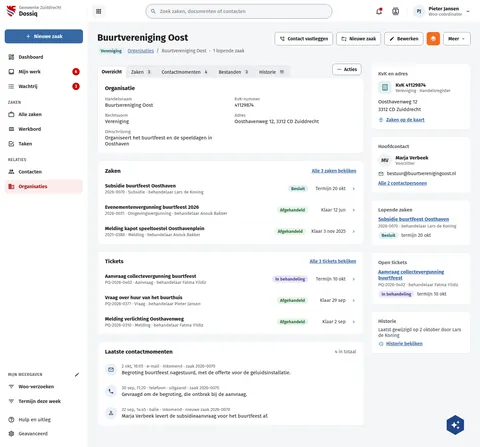
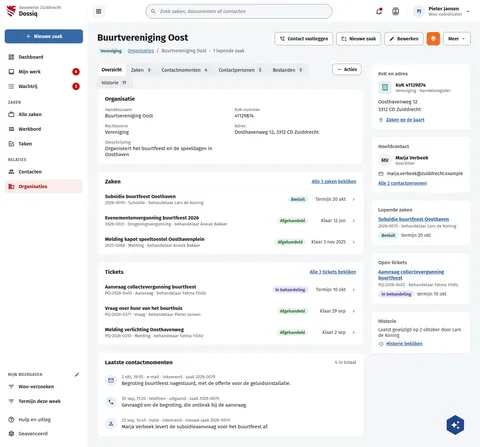
fix(screens): DqOrganisatie's main contact shows her own e-mail, and the Contactpersonen tab
Ruben's decision (24 Oct) on organisation contact persons: the Hoofdcontact
card shows the contact person's own correspondence address, not the
organisation's mailbox, so Marja Verbeek reads marja.verbeek@zuiddrecht.example,
as the Zuiddrecht example set holds it. "Alle 2 contactpersonen" opens a tab,
so the strip gains "Contactpersonen 2" after Contactmomenten, as dossiq
builds it (feat/organisation-contact-persons). screens.json is left as it was;
the board's height did not change.

Assisted-by: ClaudeCode:claude-opus-5-5

diff --git a/preview/screens/boards/DqOrganisatie.html b/preview/screens/boards/DqOrganisatie.html
@@ -168,6 +168,8 @@ a{color:var(--sc-primary, #3669a5)}a:hover{color:var(--sc-primary-deep, #234a78)
                 
                   <button type="button" role="tab" aria-selected="false" style="display: inline-flex; align-items: center; gap: 6px; box-sizing: border-box; min-height: 34px; padding: 8px 12px; margin-bottom: -1px; border: 1px solid #d6d9de; border-bottom: none; border-radius: 8px 8px 0 0; font: 400 14px var(--sc-font, 'Fira Sans'), sans-serif; color: var(--sc-work-ink, #1b1c1d); background: #eceef1; cursor: pointer; white-space: nowrap;">Contactmomenten<span style="min-width: 20px; height: 20px; padding: 0 6px; box-sizing: border-box; border-radius: 10px; background: var(--sc-work-line, #e4e6ea); color: var(--sc-work-text, #3d4047); font-size: 12px; font-weight: 600; display: inline-flex; align-items: center; justify-content: center">4</span></button>
                 
+                  <button type="button" role="tab" aria-selected="false" style="display: inline-flex; align-items: center; gap: 6px; box-sizing: border-box; min-height: 34px; padding: 8px 12px; margin-bottom: -1px; border: 1px solid #d6d9de; border-bottom: none; border-radius: 8px 8px 0 0; font: 400 14px var(--sc-font, 'Fira Sans'), sans-serif; color: var(--sc-work-ink, #1b1c1d); background: #eceef1; cursor: pointer; white-space: nowrap;">Contactpersonen<span style="min-width: 20px; height: 20px; padding: 0 6px; box-sizing: border-box; border-radius: 10px; background: var(--sc-work-line, #e4e6ea); color: var(--sc-work-text, #3d4047); font-size: 12px; font-weight: 600; display: inline-flex; align-items: center; justify-content: center">2</span></button>
+                
                   <button type="button" role="tab" aria-selected="false" style="display: inline-flex; align-items: center; gap: 6px; box-sizing: border-box; min-height: 34px; padding: 8px 12px; margin-bottom: -1px; border: 1px solid #d6d9de; border-bottom: none; border-radius: 8px 8px 0 0; font: 400 14px var(--sc-font, 'Fira Sans'), sans-serif; color: var(--sc-work-ink, #1b1c1d); background: #eceef1; cursor: pointer; white-space: nowrap;">Bestanden<span style="min-width: 20px; height: 20px; padding: 0 6px; box-sizing: border-box; border-radius: 10px; background: var(--sc-work-line, #e4e6ea); color: var(--sc-work-text, #3d4047); font-size: 12px; font-weight: 600; display: inline-flex; align-items: center; justify-content: center">3</span></button>
                 
                   <button type="button" role="tab" aria-selected="false" style="display: inline-flex; align-items: center; gap: 6px; box-sizing: border-box; min-height: 34px; padding: 8px 12px; margin-bottom: -1px; border: 1px solid #d6d9de; border-bottom: none; border-radius: 8px 8px 0 0; font: 400 14px var(--sc-font, 'Fira Sans'), sans-serif; color: var(--sc-work-ink, #1b1c1d); background: #eceef1; cursor: pointer; white-space: nowrap;">Historie<span style="min-width: 20px; height: 20px; padding: 0 6px; box-sizing: border-box; border-radius: 10px; background: var(--sc-work-line, #e4e6ea); color: var(--sc-work-text, #3d4047); font-size: 12px; font-weight: 600; display: inline-flex; align-items: center; justify-content: center">11</span></button>
@@ -272,7 +274,7 @@ a{color:var(--sc-primary, #3669a5)}a:hover{color:var(--sc-primary-deep, #234a78)
             <section style="background: #ffffff; border: 1px solid var(--sc-work-line, #e4e6ea); border-radius: 12px; padding: 20px 22px; display: flex; flex-direction: column; gap: 12px">
               <h2 style="margin: 0; font-size: 15px; font-weight: 600; color: var(--sc-work-muted, #5e6168)">Hoofdcontact</h2>
               <div style="display: flex; gap: 12px; align-items: center"><span style="width: 40px; height: 40px; flex: none; border-radius: 20px; background: var(--sc-work-chip, #f0f1f3); color: var(--sc-work-text, #3d4047); display: flex; align-items: center; justify-content: center; font-weight: 700">MV</span><span style="display: flex; flex-direction: column"><strong style="font-size: 15px">Marja Verbeek</strong><span style="font-size: 13px; color: var(--sc-work-muted, #5e6168)">Voorzitter</span></span></div>
-              <span style="display: flex; gap: 10px; align-items: center; font-size: 14px"><svg width="16" height="16" viewbox="0 0 24 24" fill="#3d4047" style="flex: none;fill:var(--sc-work-text, #3d4047)" aria-hidden="true"><path d="M22 6C22 4.9 21.1 4 20 4H4C2.9 4 2 4.9 2 6V18C2 19.1 2.9 20 4 20H20C21.1 20 22 19.1 22 18V6M20 6L12 11L4 6H20M20 18H4V8L12 13L20 8V18Z"></path></svg>bestuur@buurtverenigingoost.nl</span>
+              <span style="display: flex; gap: 10px; align-items: center; font-size: 14px"><svg width="16" height="16" viewbox="0 0 24 24" fill="#3d4047" style="flex: none;fill:var(--sc-work-text, #3d4047)" aria-hidden="true"><path d="M22 6C22 4.9 21.1 4 20 4H4C2.9 4 2 4.9 2 6V18C2 19.1 2.9 20 4 20H20C21.1 20 22 19.1 22 18V6M20 6L12 11L4 6H20M20 18H4V8L12 13L20 8V18Z"></path></svg>marja.verbeek@zuiddrecht.example</span>
               <a href="#" style="font-size: 14px; font-weight: 600">Alle 2 contactpersonen</a>
             </section>
             <section style="background: #ffffff; border: 1px solid var(--sc-work-line, #e4e6ea); border-radius: 12px; padding: 20px 22px; display: flex; flex-direction: column; gap: 10px">

diff --git a/screens-src/zuiddrecht/DqOrganisatie.dc.html b/screens-src/zuiddrecht/DqOrganisatie.dc.html
@@ -100,7 +100,7 @@ a{color:#3669a5}a:hover{color:#234a78}
             <section style="background: #ffffff; border: 1px solid #e4e6ea; border-radius: 12px; padding: 20px 22px; display: flex; flex-direction: column; gap: 12px">
               <h2 style="margin: 0; font-size: 15px; font-weight: 600; color: #5e6168">Hoofdcontact</h2>
               <div style="display: flex; gap: 12px; align-items: center"><span style="width: 40px; height: 40px; flex: none; border-radius: 20px; background: #f0f1f3; color: #3d4047; display: flex; align-items: center; justify-content: center; font-weight: 700">MV</span><span style="display: flex; flex-direction: column"><strong style="font-size: 15px">Marja Verbeek</strong><span style="font-size: 13px; color: #5e6168">Voorzitter</span></span></div>
-              <span style="display: flex; gap: 10px; align-items: center; font-size: 14px"><svg width="16" height="16" viewBox="0 0 24 24" fill="#3d4047" style="flex: none" aria-hidden="true"><path d="M22 6C22 4.9 21.1 4 20 4H4C2.9 4 2 4.9 2 6V18C2 19.1 2.9 20 4 20H20C21.1 20 22 19.1 22 18V6M20 6L12 11L4 6H20M20 18H4V8L12 13L20 8V18Z"></path></svg>bestuur@buurtverenigingoost.nl</span>
+              <span style="display: flex; gap: 10px; align-items: center; font-size: 14px"><svg width="16" height="16" viewBox="0 0 24 24" fill="#3d4047" style="flex: none" aria-hidden="true"><path d="M22 6C22 4.9 21.1 4 20 4H4C2.9 4 2 4.9 2 6V18C2 19.1 2.9 20 4 20H20C21.1 20 22 19.1 22 18V6M20 6L12 11L4 6H20M20 18H4V8L12 13L20 8V18Z"></path></svg>marja.verbeek@zuiddrecht.example</span>
               <a href="#" style="font-size: 14px; font-weight: 600">Alle 2 contactpersonen</a>
             </section>
             <section style="background: #ffffff; border: 1px solid #e4e6ea; border-radius: 12px; padding: 20px 22px; display: flex; flex-direction: column; gap: 10px">
@@ -131,7 +131,7 @@ class Component extends DCLogic {
     const withCounts = (arr) => arr.map((t) => { const m = /^(.*?)\s+(\d[\d.,]*)(\s+.*)?$/.exec(t.label || ''); return m ? Object.assign({}, t, { label: m[1] + (m[3] || ''), count: m[2], hasCount: true }) : Object.assign({}, t, { hasCount: false }); });
     const tabBase = "display: inline-flex; align-items: center; gap: 6px; box-sizing: border-box; min-height: 34px; padding: 8px 12px; margin-bottom: -1px; border: 1px solid #d6d9de; border-bottom: none; border-radius: 8px 8px 0 0; font: 400 14px 'Fira Sans', sans-serif; color: #1b1c1d; background: #eceef1; cursor: pointer; white-space: nowrap;";
     const tab = (on) => on ? tabBase + " background: #ffffff; border-bottom: 1px solid #ffffff; font-weight: 700;" : tabBase;
-    const tabs = [['Overzicht', true], ['Zaken 3', false], ['Contactmomenten 4', false], ['Bestanden 3', false], ['Historie 11', false]].map(([label, on]) => ({ label, sel: on ? 'true' : 'false', style: tab(on) }));
+    const tabs = [['Overzicht', true], ['Zaken 3', false], ['Contactmomenten 4', false], ['Contactpersonen 2', false], ['Bestanden 3', false], ['Historie 11', false]].map(([label, on]) => ({ label, sel: on ? 'true' : 'false', style: tab(on) }));
     const facts = [
       ['Handelsnaam', 'Buurtvereniging Oost'], ['KvK-nummer', '41129874'], ['Rechtsvorm', 'Vereniging'],
       ['Adres', 'Oosthavenweg 12, 3312 CD Zuiddrecht'], ['Omschrijving', 'Organiseert het buurtfeest en de speeldagen in Oosthaven']
